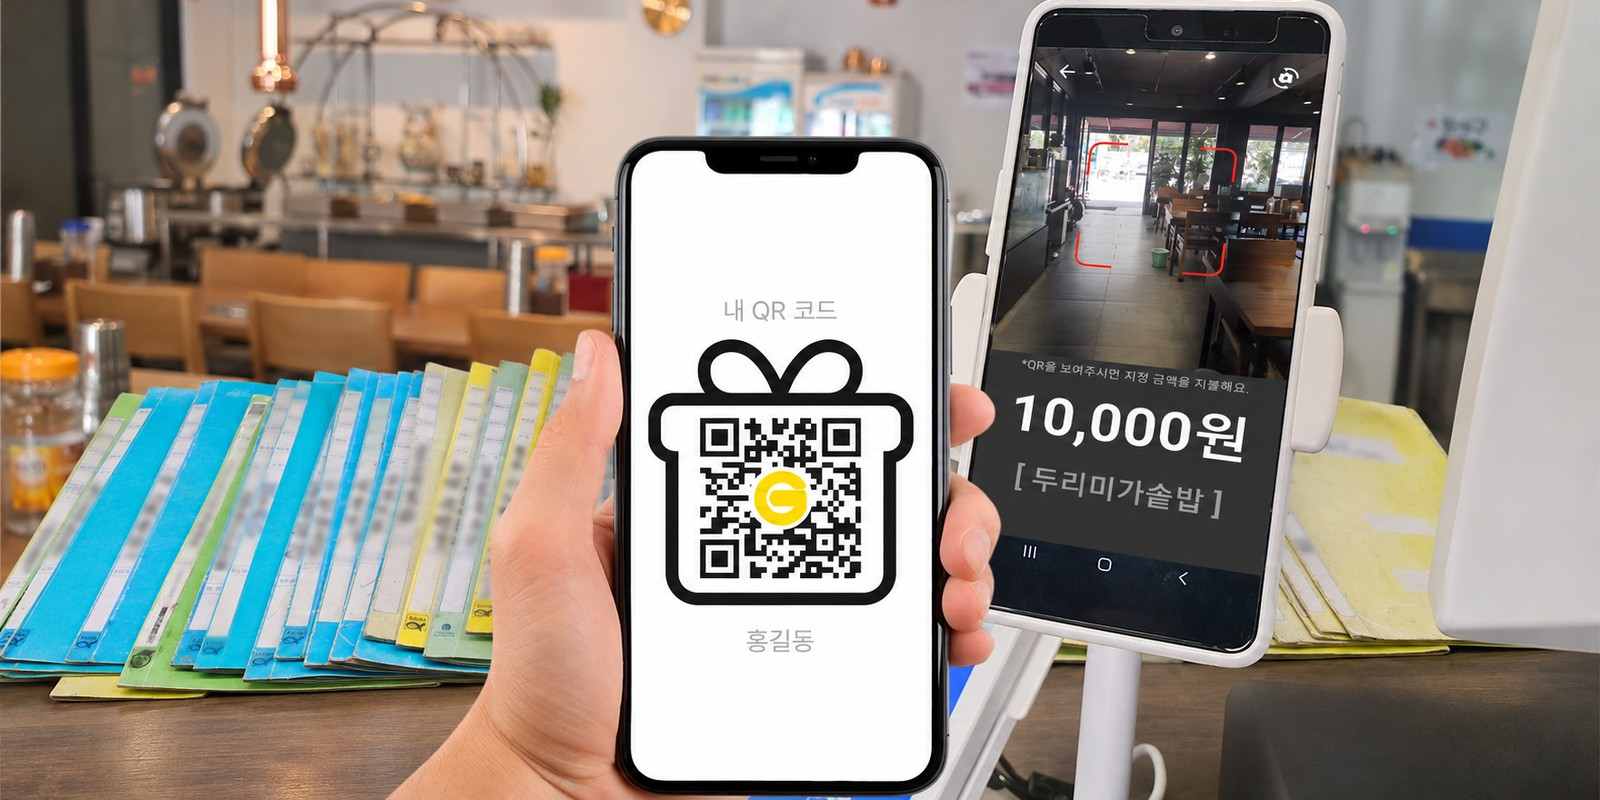
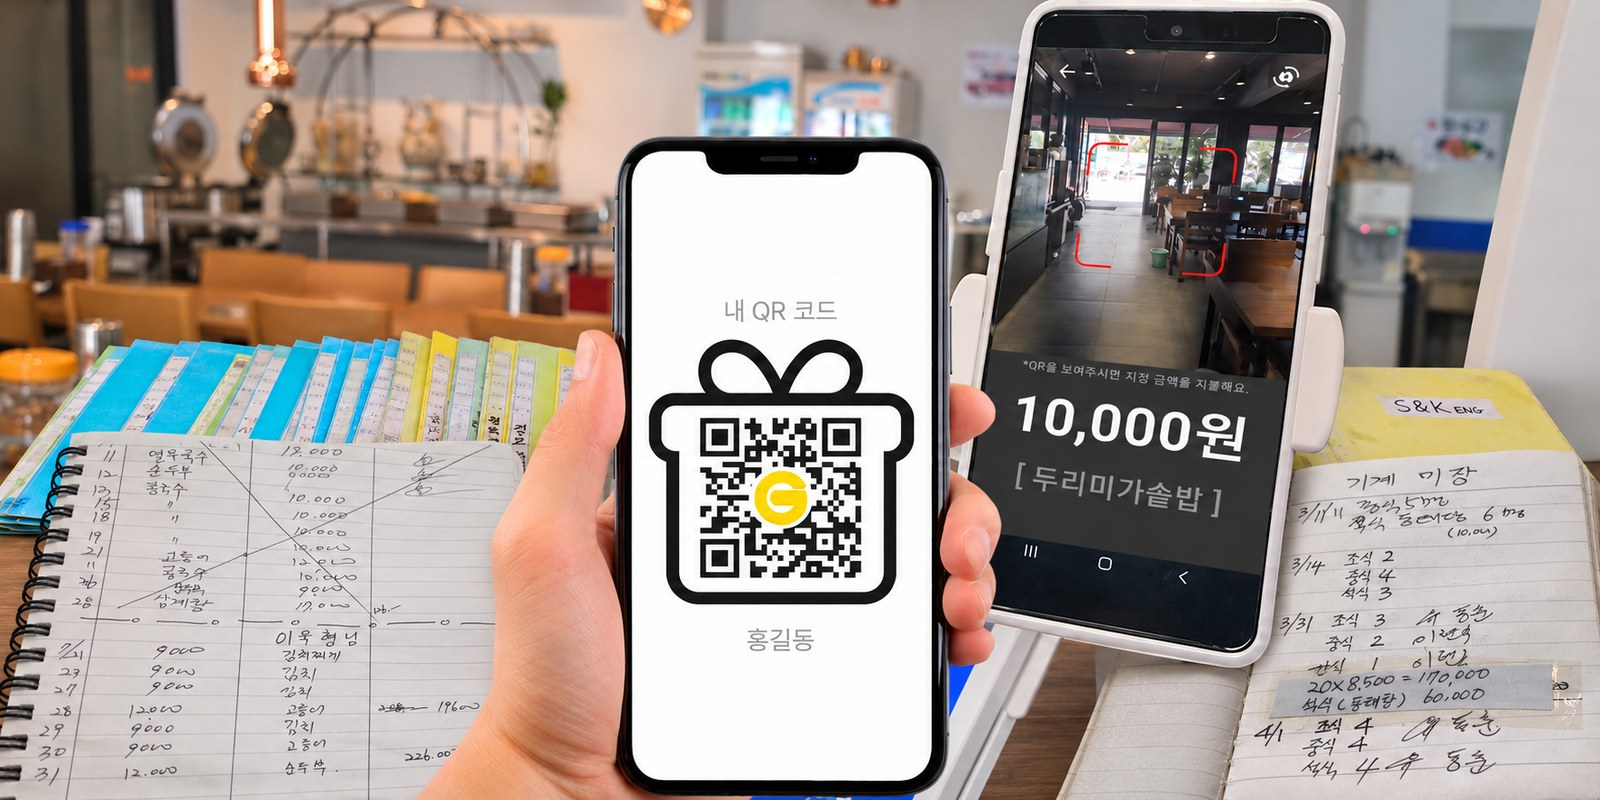
펼친 손글씨 장부와 QR 합성 이미지로 mainimg 교체

diff --git a/index.html b/index.html
@@ -279,7 +279,7 @@
             href="https://cdn.jsdelivr.net/gh/orioncactus/pretendard@v1.3.9/dist/web/static/pretendard.min.css">
     </noscript>
 
-    <link rel="stylesheet" href="css/index_B.css?v=20261105">
+    <link rel="stylesheet" href="css/index_B.css?v=20261115">
     <style>
         /* 3D 캐릭터 (assets/char, 원본 D:aa\characters) */
         .char-icon { width: auto; height: 132px; margin-right: 2rem; flex-shrink: 0; filter: drop-shadow(0 8px 10px rgba(0, 0, 0, .35)); }
@@ -418,9 +418,9 @@
             <!-- 모바일 전용: 히어로 사진을 배경이 아닌 독립 밴드로.
                  텍스트가 히어로 세로 7~93%를 덮어 배경으로는 보이지 않기 때문.
                  타이틀 바로 아래에 두어 헤드라인과 한 덩어리로 읽히게 한다. -->
-            <img fetchpriority="high" id="hero-img" src="mainimg.webp"
-                srcset="mainimg-800.webp 800w, mainimg.webp 1600w" sizes="100vw" width="1600" height="800" class="md:hidden"
-                alt="근로자가 스마트폰의 QR 식권을 보여주고, 식당에 거치된 스마트폰이 이를 스캔해 10,000원을 결제하는 구내식당 현장과 뒤편의 회사별 식수 장부">
+            <img fetchpriority="high" id="hero-img" src="mainimg.webp?v=20261115"
+                srcset="mainimg-800.webp?v=20261115 800w, mainimg.webp?v=20261115 1600w" sizes="100vw" width="1600" height="800" class="md:hidden"
+                alt="펼친 손글씨 식수 장부와 회사별 장부, 개인 QR 식권을 보여주는 스마트폰과 두리미가 솥밥의 스마트폰 스캐너를 함께 배치한 식수장부 안내 이미지">
 
             <p class="text-2xl text-white mb-20 max-w-6xl mx-auto leading-relaxed font-medium brand-definition">
                 식수장부는 기프트코인이 제공하는 구내식당·함바식당용 모바일 식수관리시스템입니다.<br>스마트폰 QR로 식수 기록부터 회사별 월말 정산까지.

diff --git a/brochure1.html b/brochure1.html
@@ -198,7 +198,7 @@
             height: 102mm;
             background:
                 linear-gradient(180deg, rgba(0, 0, 0, 0.82) 0%, rgba(0, 0, 0, 0.55) 40%, rgba(0, 0, 0, 0.15) 68%, rgba(0, 0, 0, 0) 100%),
-                url('mainimg.jpg');
+                url('mainimg.jpg?v=20261115');
             background-size: cover;
             background-position: center 50%;
             display: flex;

diff --git a/brochure2.html b/brochure2.html
@@ -198,7 +198,7 @@
             height: 102mm;
             background:
                 linear-gradient(180deg, rgba(0, 0, 0, 0.82) 0%, rgba(0, 0, 0, 0.55) 40%, rgba(0, 0, 0, 0.15) 68%, rgba(0, 0, 0, 0) 100%),
-                url('mainimg.jpg');
+                url('mainimg.jpg?v=20261115');
             background-size: cover;
             background-position: center 50%;
             display: flex;

diff --git a/proposal.html b/proposal.html
@@ -204,7 +204,7 @@
         .cover {
             background:
                 linear-gradient(105deg, rgba(0, 0, 0, 0.86) 0%, rgba(0, 0, 0, 0.62) 42%, rgba(0, 0, 0, 0.20) 74%, rgba(0, 0, 0, 0.05) 100%),
-                url('mainimg.jpg');
+                url('mainimg.jpg?v=20261115');
             background-size: cover;
             background-position: center 45%;
             color: #fff;

diff --git a/css/index_B.css b/css/index_B.css
@@ -17,7 +17,7 @@
 #hero {
     background-image:
         linear-gradient(rgba(0, 0, 0, .42), rgba(0, 0, 0, .42)),
-        url(../mainimg.webp);
+        url(../mainimg.webp?v=20261115);
     background-attachment: scroll;
 }
 

diff --git a/docs/task/2026-11-15-mainimg-v2-release.md b/docs/task/2026-11-15-mainimg-v2-release.md
@@ -1,0 +1,13 @@
+# 펼친 장부·QR 메인 이미지 교체
+
+- 사용자 승인: 첨부한 mainimg-v2.png를 pos.kr의 mainimg로 교체하고 배포한다.
+- 기준: main / 10a0455f0731540318d36b77a770b062de79eecd. 기존 IMPROVEMENTS.md 수정과 미추적 업무 자료는 이번 커밋에서 제외한다.
+- 원본: Sales/data/meal_ledger_email_variants_20261111_v2/assets/mainimg-v2.png. 사진 내용은 수정하지 않고 웹용 크기·포맷만 맞춘다.
+- 범위: mainimg.png, mainimg.jpg, mainimg.webp, mainimg-800.webp 및 이를 사용하는 메인·제안서·브로셔의 캐시 버전. 기존 mainimg_old 파일과 이전 버전 Git 이력은 보존한다.
+- 완료 조건: 원본 일치, 이미지 디코딩·크기 및 기존 SEO 검사 통과, PC·모바일 표시 확인, origin/main 푸시와 Vercel 배포·공개 파일 확인.
+- 적용 완료: PNG 1774×887 원본 완전복사, JPEG/WebP 1600×800, 모바일 WebP 800×400. 원본 SHA256: c3e79cd2d358a0f50c220b79c7b80da1a4c2855144e47742b2bf6f9b4725563d.
+- 기존 이미지 캐시가 일주일 유지될 수 있어 CSS·사용 이미지 URL에 v=20261115를 적용했다. 원본 mainimg 파일명은 유지하며, 동일 JPEG를 쓰는 제안서·브로셔의 참조도 함께 갱신했다. 대체 텍스트는 펼친 장부와 QR·스캐너 합성 구성에 맞췄다.
+- 로컬 검증: 4종 이미지 RGB·디코딩·크기 확인, python scripts/check-seo.py --check-images(17페이지) 및 git diff --check 통과. Orca 1440×960 / 390×844에서 새 이미지 사용, 모바일 이미지 2:1 표시 및 문서 가로 넘침 없음 확인. 캡처 육안 확인 완료.
+- 로컬 file URL에서 본문을 읽을 수 없어 임시 HTTP 서버(127.0.0.1:54615, PID 35056)로 전환했다. 검증용 Orca 페이지 07c49626-cf16-419d-9355-9aa656d328a2와 캡처는 운영 확인 후 정리한다.
+- 변경된 HTML/CSS는 이미지 URL·버전·alt만 수정한 것을 diff로 검토했다. 기존 mainimg_old 및 무관한 변경은 보존했다.
+- 배포 실행 예정: 아래 10개 파일만 새 커밋하고 origin/main에 push하여 기존 Vercel 자동 배포를 실행한다. 운영 반영은 배포 후 별도 확인한다.
